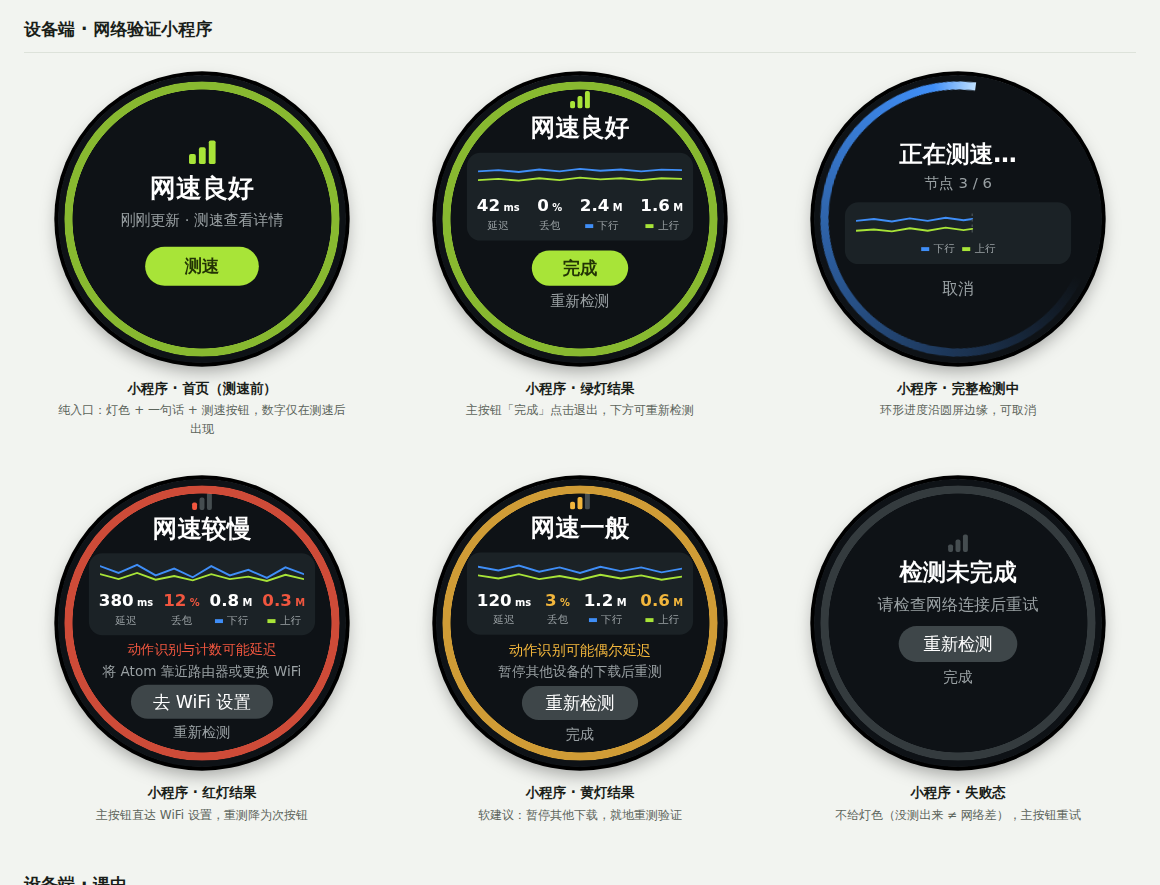
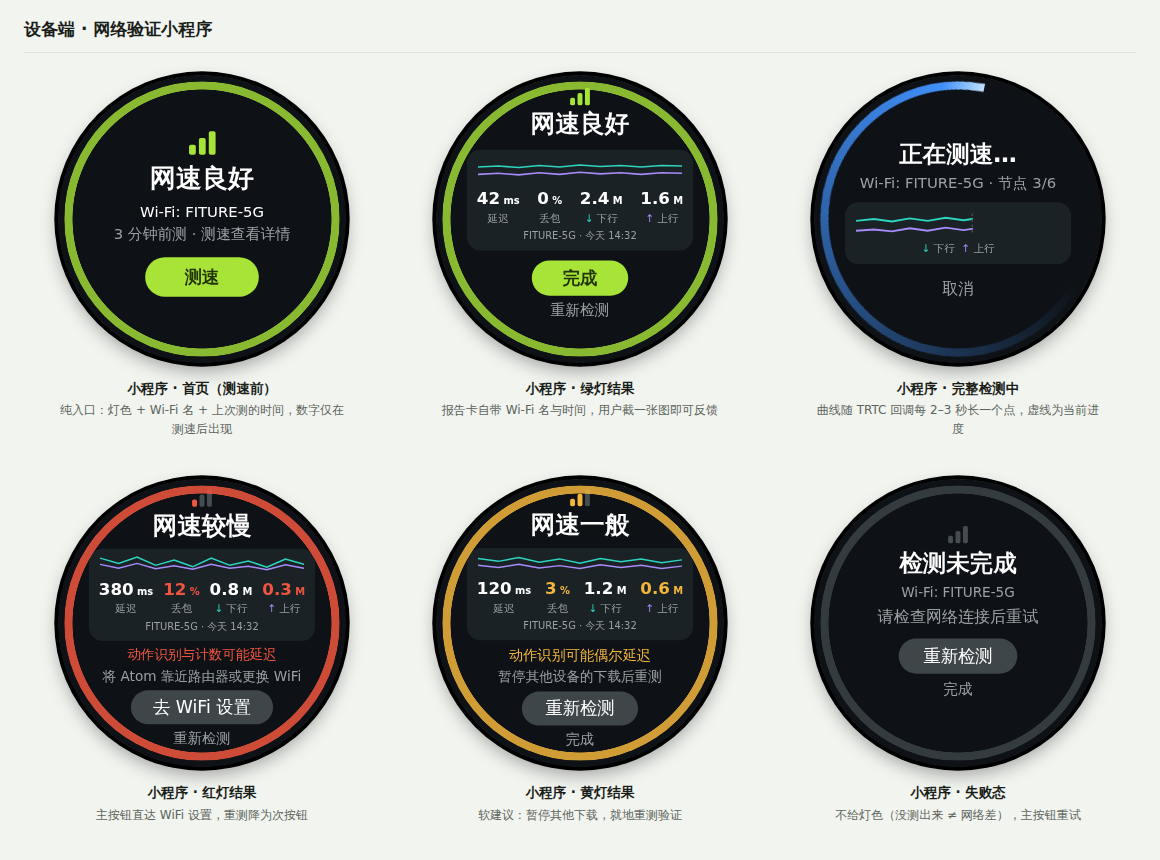
Add SSID + test time to speed-test app; adopt Ookla-style down/up colors
- Show current Wi-Fi name on mini-app home, testing screen, failure
  state, and as a footer inside every result report card (SSID + test
  time), so a single screenshot is a complete, attributable report
- Waveform colors: down = teal #2DD4BF, up = violet #A78BFA with arrow
  legends (Ookla convention); red/yellow/green banned on curves to
  avoid collision with traffic-light semantics (up-curve previously
  reused the green-light color)
- New PRD A4.7: waveform spec — one point per TRTC callback (2-3 s,
  5-8 points; fallback path 1 s buckets), real-time append rendering
  with progress cursor, polyline only (no interpolation), result page
  freezes the same data into the report card
- Tighten EN copy and vertical spacing so red/yellow result screens
  fit the round bezel in both languages; re-export embedded PNG

Claude-Session: https://claude.ai/code/session_01GK61VJL6HvXSFdCeuPzjiU

diff --git a/Demo-界面交互UI设计.html b/Demo-界面交互UI设计.html
@@ -77,6 +77,7 @@
   .rc-metrics .v { font-size: 27px; font-weight: 600; }
   .rc-metrics .v span { font-size: 16px; }
   .rc-metrics .k { font-size: 17px; color: var(--dev-sub); margin-top: 2px; }
+  .rc-foot { font-size: 16px; color: var(--dev-sub); margin-top: 5px; }
   .status-line { display: flex; align-items: center; justify-content: center; gap: 12px; min-height: 56px; font-size: 27px; color: #d4d8da; }
 
   .ring { position: absolute; inset: 10px; border-radius: 50%;
@@ -275,11 +276,12 @@
         <div style="flex:.85"></div>
         <span class="bars lg"><i class="b1" style="background:var(--dev-good)"></i><i class="b2" style="background:var(--dev-good)"></i><i class="b3" style="background:var(--dev-good)"></i></span>
         <div class="big-status" data-en="Good speed">网速良好</div>
-        <div style="font-size:24px; color:var(--dev-sub); margin-top:6px" data-en="Updated just now · test for details">刚刚更新 · 测速查看详情</div>
-        <div class="btn primary" style="margin-top:26px; padding:12px 64px" data-en="Speed test">测速</div>
+        <div style="font-size:24px; color:var(--dev-text); margin-top:8px">Wi-Fi: FITURE-5G</div>
+        <div style="font-size:24px; color:var(--dev-sub); margin-top:2px" data-en="Tested 3 min ago · test for details">3 分钟前测 · 测速查看详情</div>
+        <div class="btn primary" style="margin-top:20px; padding:12px 64px" data-en="Speed test">测速</div>
         <div style="flex:1"></div>
       </div></div>
-      <figcaption><b>小程序 · 首页（测速前）</b><span>纯入口：灯色 + 一句话 + 测速按钮，数字仅在测速后出现</span></figcaption>
+      <figcaption><b>小程序 · 首页（测速前）</b><span>纯入口：灯色 + Wi-Fi 名 + 上次测的时间，数字仅在测速后出现</span></figcaption>
     </figure>
 
     <figure class="shot">
@@ -289,19 +291,20 @@
         <span class="bars"><i class="b1" style="background:var(--dev-good)"></i><i class="b2" style="background:var(--dev-good)"></i><i class="b3" style="background:var(--dev-good)"></i></span>
         <div class="big-status" style="margin-top:2px; font-size:40px" data-en="Good speed">网速良好</div>
         <div class="report-card" style="margin-top:14px">
-          <svg width="330" height="40" viewBox="0 0 330 40"><polyline points="0,14 33,12 66,15 99,11 132,14 165,10 198,13 231,11 264,14 297,11 330,12" fill="none" stroke="#3f8ef7" stroke-width="3" stroke-linecap="round"/><polyline points="0,28 33,26 66,29 99,25 132,28 165,24 198,27 231,25 264,28 297,25 330,26" fill="none" stroke="#a8e438" stroke-width="3" stroke-linecap="round"/></svg>
+          <svg width="330" height="34" viewBox="0 0 330 40" preserveAspectRatio="none"><polyline points="0,14 33,12 66,15 99,11 132,14 165,10 198,13 231,11 264,14 297,11 330,12" fill="none" stroke="#2dd4bf" stroke-width="3" stroke-linecap="round"/><polyline points="0,28 33,26 66,29 99,25 132,28 165,24 198,27 231,25 264,28 297,25 330,26" fill="none" stroke="#a78bfa" stroke-width="3" stroke-linecap="round"/></svg>
           <div class="rc-metrics">
             <div><div class="v">42<span> ms</span></div><div class="k" data-en="Latency">延迟</div></div>
             <div><div class="v">0<span> %</span></div><div class="k" data-en="Loss">丢包</div></div>
-            <div><div class="v">2.4<span> M</span></div><div class="k"><span style="color:#3f8ef7">▬</span> <span data-en="Down">下行</span></div></div>
-            <div><div class="v">1.6<span> M</span></div><div class="k"><span style="color:#a8e438">▬</span> <span data-en="Up">上行</span></div></div>
+            <div><div class="v">2.4<span> M</span></div><div class="k"><span style="color:#2dd4bf">↓</span> <span data-en="Down">下行</span></div></div>
+            <div><div class="v">1.6<span> M</span></div><div class="k"><span style="color:#a78bfa">↑</span> <span data-en="Up">上行</span></div></div>
           </div>
+          <div class="rc-foot">FITURE-5G · <span data-en="today 14:32">今天 14:32</span></div>
         </div>
         <div class="btn primary" style="margin-top:16px; padding:9px 50px" data-en="Done">完成</div>
         <div style="font-size:24px; color:var(--dev-sub); margin-top:8px" data-en="Retest">重新检测</div>
         <div style="flex:.9"></div>
       </div></div>
-      <figcaption><b>小程序 · 绿灯结果</b><span>主按钮「完成」点击退出，下方可重新检测</span></figcaption>
+      <figcaption><b>小程序 · 绿灯结果</b><span>报告卡自带 Wi-Fi 名与时间，用户截一张图即可反馈</span></figcaption>
     </figure>
 
     <figure class="shot">
@@ -309,15 +312,15 @@
         <div class="ring scan"></div>
         <div style="flex:.9"></div>
         <div class="big-status" style="font-size:38px" data-en="Testing speed…">正在测速…</div>
-        <div style="font-size:24px; color:var(--dev-sub); margin-top:4px" data-en="Node 3 / 6">节点 3 / 6</div>
+        <div style="font-size:24px; color:var(--dev-sub); margin-top:4px" data-en="Wi-Fi: FITURE-5G · node 3/6">Wi-Fi: FITURE-5G · 节点 3/6</div>
         <div class="report-card" style="margin-top:14px; padding-top:14px">
-          <svg width="330" height="44" viewBox="0 0 330 44"><polyline points="0,16 29,13 58,17 87,12 116,16 145,11 174,15 188,13" fill="none" stroke="#3f8ef7" stroke-width="3" stroke-linecap="round"/><polyline points="0,32 29,30 58,33 87,28 116,32 145,27 174,31 188,29" fill="none" stroke="#a8e438" stroke-width="3" stroke-linecap="round"/><line x1="188" y1="4" x2="188" y2="40" stroke="#4a5254" stroke-width="2" stroke-dasharray="4 5"/></svg>
-          <div style="font-size:17px; color:var(--dev-sub); margin-top:6px"><span style="color:#3f8ef7">▬</span> <span data-en="Down">下行</span>&nbsp;&nbsp;<span style="color:#a8e438">▬</span> <span data-en="Up">上行</span></div>
+          <svg width="330" height="44" viewBox="0 0 330 44"><polyline points="0,16 29,13 58,17 87,12 116,16 145,11 174,15 188,13" fill="none" stroke="#2dd4bf" stroke-width="3" stroke-linecap="round"/><polyline points="0,32 29,30 58,33 87,28 116,32 145,27 174,31 188,29" fill="none" stroke="#a78bfa" stroke-width="3" stroke-linecap="round"/><line x1="188" y1="4" x2="188" y2="40" stroke="#4a5254" stroke-width="2" stroke-dasharray="4 5"/></svg>
+          <div style="font-size:17px; color:var(--dev-sub); margin-top:6px"><span style="color:#2dd4bf">↓</span> <span data-en="Down">下行</span>&nbsp;&nbsp;<span style="color:#a78bfa">↑</span> <span data-en="Up">上行</span></div>
         </div>
         <div style="font-size:26px; color:var(--dev-sub); margin-top:22px" data-en="Cancel">取消</div>
         <div style="flex:1"></div>
       </div></div>
-      <figcaption><b>小程序 · 完整检测中</b><span>环形进度沿圆屏边缘，可取消</span></figcaption>
+      <figcaption><b>小程序 · 完整检测中</b><span>曲线随 TRTC 回调每 2–3 秒长一个点，虚线为当前进度</span></figcaption>
     </figure>
 
     <figure class="shot">
@@ -326,17 +329,18 @@
         <div style="flex:.44"></div>
         <span class="bars"><i class="b1" style="background:var(--dev-bad)"></i><i class="b2 dim"></i><i class="b3 dim"></i></span>
         <div class="big-status" style="margin-top:2px; font-size:40px" data-en="Slow speed">网速较慢</div>
-        <div class="report-card" style="margin-top:12px; padding-top:12px">
-          <svg width="330" height="36" viewBox="0 0 330 36"><polyline points="0,9 30,20 60,7 90,24 120,13 150,27 180,9 210,24 240,15 270,28 300,11 330,22" fill="none" stroke="#3f8ef7" stroke-width="3" stroke-linecap="round"/><polyline points="0,22 30,30 60,20 90,31 120,25 150,32 180,22 210,30 240,26 270,33 300,23 330,30" fill="none" stroke="#a8e438" stroke-width="3" stroke-linecap="round"/></svg>
+        <div class="report-card" style="margin-top:10px; padding-top:8px">
+          <svg width="330" height="28" viewBox="0 0 330 36" preserveAspectRatio="none"><polyline points="0,9 30,20 60,7 90,24 120,13 150,27 180,9 210,24 240,15 270,28 300,11 330,22" fill="none" stroke="#2dd4bf" stroke-width="3" stroke-linecap="round"/><polyline points="0,22 30,30 60,20 90,31 120,25 150,32 180,22 210,30 240,26 270,33 300,23 330,30" fill="none" stroke="#a78bfa" stroke-width="3" stroke-linecap="round"/></svg>
           <div class="rc-metrics">
             <div><div class="v">380<span> ms</span></div><div class="k" data-en="Latency">延迟</div></div>
             <div><div class="v" style="color:var(--dev-bad)">12<span> %</span></div><div class="k" data-en="Loss">丢包</div></div>
-            <div><div class="v">0.8<span> M</span></div><div class="k"><span style="color:#3f8ef7">▬</span> <span data-en="Down">下行</span></div></div>
-            <div><div class="v" style="color:var(--dev-bad)">0.3<span> M</span></div><div class="k"><span style="color:#a8e438">▬</span> <span data-en="Up">上行</span></div></div>
+            <div><div class="v">0.8<span> M</span></div><div class="k"><span style="color:#2dd4bf">↓</span> <span data-en="Down">下行</span></div></div>
+            <div><div class="v" style="color:var(--dev-bad)">0.3<span> M</span></div><div class="k"><span style="color:#a78bfa">↑</span> <span data-en="Up">上行</span></div></div>
           </div>
+          <div class="rc-foot">FITURE-5G · <span data-en="today 14:32">今天 14:32</span></div>
         </div>
-        <div style="font-size:22px; color:var(--dev-bad); margin-top:8px" data-en="Pose tracking and rep counts may lag">动作识别与计数可能延迟</div>
-        <div class="advice" style="margin-top:3px; font-size:22px; width:370px" data-en="Move Atom closer to the router or switch Wi-Fi">将 Atom 靠近路由器或更换 WiFi</div>
+        <div style="font-size:22px; color:var(--dev-bad); margin-top:8px" data-en="Pose tracking & counting may lag">动作识别与计数可能延迟</div>
+        <div class="advice" style="margin-top:3px; font-size:22px; width:370px" data-en="Move Atom closer or switch Wi-Fi">将 Atom 靠近路由器或更换 WiFi</div>
         <div class="btn" style="margin-top:6px; padding:8px 36px" data-en="Wi-Fi Settings">去 WiFi 设置</div>
         <div style="font-size:23px; color:var(--dev-sub); margin-top:6px" data-en="Retest">重新检测</div>
         <div style="flex:.8"></div>
@@ -350,17 +354,18 @@
         <div style="flex:.44"></div>
         <span class="bars"><i class="b1" style="background:var(--dev-warn)"></i><i class="b2" style="background:var(--dev-warn)"></i><i class="b3 dim"></i></span>
         <div class="big-status" style="margin-top:2px; font-size:40px" data-en="Fair speed">网速一般</div>
-        <div class="report-card" style="margin-top:12px; padding-top:12px">
-          <svg width="330" height="36" viewBox="0 0 330 36"><polyline points="0,11 33,17 66,9 99,19 132,12 165,21 198,11 231,18 264,12 297,20 330,14" fill="none" stroke="#3f8ef7" stroke-width="3" stroke-linecap="round"/><polyline points="0,25 33,30 66,23 99,31 132,26 165,32 198,24 231,30 264,25 297,32 330,27" fill="none" stroke="#a8e438" stroke-width="3" stroke-linecap="round"/></svg>
+        <div class="report-card" style="margin-top:10px; padding-top:8px">
+          <svg width="330" height="28" viewBox="0 0 330 36" preserveAspectRatio="none"><polyline points="0,11 33,17 66,9 99,19 132,12 165,21 198,11 231,18 264,12 297,20 330,14" fill="none" stroke="#2dd4bf" stroke-width="3" stroke-linecap="round"/><polyline points="0,25 33,30 66,23 99,31 132,26 165,32 198,24 231,30 264,25 297,32 330,27" fill="none" stroke="#a78bfa" stroke-width="3" stroke-linecap="round"/></svg>
           <div class="rc-metrics">
             <div><div class="v">120<span> ms</span></div><div class="k" data-en="Latency">延迟</div></div>
             <div><div class="v" style="color:var(--dev-warn)">3<span> %</span></div><div class="k" data-en="Loss">丢包</div></div>
-            <div><div class="v">1.2<span> M</span></div><div class="k"><span style="color:#3f8ef7">▬</span> <span data-en="Down">下行</span></div></div>
-            <div><div class="v" style="color:var(--dev-warn)">0.6<span> M</span></div><div class="k"><span style="color:#a8e438">▬</span> <span data-en="Up">上行</span></div></div>
+            <div><div class="v">1.2<span> M</span></div><div class="k"><span style="color:#2dd4bf">↓</span> <span data-en="Down">下行</span></div></div>
+            <div><div class="v" style="color:var(--dev-warn)">0.6<span> M</span></div><div class="k"><span style="color:#a78bfa">↑</span> <span data-en="Up">上行</span></div></div>
           </div>
+          <div class="rc-foot">FITURE-5G · <span data-en="today 14:32">今天 14:32</span></div>
         </div>
         <div style="font-size:23px; color:var(--dev-warn); margin-top:8px" data-en="Pose tracking may lag at times">动作识别可能偶尔延迟</div>
-        <div class="advice" style="margin-top:3px; font-size:22px; width:370px" data-en="Pause other downloads and retest">暂停其他设备的下载后重测</div>
+        <div class="advice" style="margin-top:3px; font-size:22px; width:370px" data-en="Pause other downloads, retest">暂停其他设备的下载后重测</div>
         <div class="btn" style="margin-top:8px; padding:8px 38px" data-en="Retest">重新检测</div>
         <div style="font-size:23px; color:var(--dev-sub); margin-top:6px" data-en="Done">完成</div>
         <div style="flex:.8"></div>
@@ -374,7 +379,8 @@
         <div style="flex:.7"></div>
         <span class="bars"><i class="b1 dim"></i><i class="b2 dim"></i><i class="b3 dim"></i></span>
         <div class="big-status" style="font-size:38px; margin-top:6px" data-en="Test incomplete">检测未完成</div>
-        <div class="advice" style="margin-top:8px" data-en="Check the connection and retry">请检查网络连接后重试</div>
+        <div style="font-size:22px; color:var(--dev-sub); margin-top:6px">Wi-Fi: FITURE-5G</div>
+        <div class="advice" style="margin-top:4px" data-en="Check the connection and retry">请检查网络连接后重试</div>
         <div class="btn" style="margin-top:16px; padding:9px 40px" data-en="Retest">重新检测</div>
         <div style="font-size:24px; color:var(--dev-sub); margin-top:9px" data-en="Done">完成</div>
         <div style="flex:1"></div>

diff --git a/PRD-atom网络状态检测与信号同步.md b/PRD-atom网络状态检测与信号同步.md
@@ -116,9 +116,9 @@ ATOM 是一台通过 WiFi 联网的嵌入式训练设备，上课时通过 TRTC 
 
 ![网速测试小程序六态：首页 / 绿灯结果 / 检测中 / 红灯结果 / 黄灯结果 / 失败态](./images/界面-网速测试小程序.png)
 
-- **A4.1 首页 = 纯入口（测速前）**：灯色 bars + 一句话结论 + 副行数据时效（「刚刚更新」≤60 秒 /「N 分钟前更新」≤5 分钟）+ 主按钮「测速」。**不展示任何数字指标**——常驻探测没有真实带宽，数字只在测速后出现，「测速前 = 入口、测速后 = 报告」天然可区分；缓存超 5 分钟不显示旧灯色，直接「检测中…」并刷新；
-- **A4.2 检测中**：标题「正在测速…」+ 真实节点进度「节点 N / M」（按官方回调驱动，不做假进度）+ 报告卡内波形实时生长（蓝 = 下行、绿 = 上行，每 2–3 秒一个样本点）+「取消」（调用 `stopSpeedTest`）；按钮防重入（官方限制同一时间仅一个测速任务）；
-- **A4.3 结果页信息分组（四组，组间距 > 组内距）**：① 结论（bars + 一句话）→ ② **报告卡**（波形定格 + 四指标一行：延迟 / 丢包 / 下行 / 上行，下行上行标签带曲线同色标记；不达期望的项用灯色着色；-1 显示「—」）→ ③ 影响 + 建议（仅黄 / 红：影响 = 对上课意味着什么，如「动作识别可能延迟」；建议 = 怎么办）→ ④ 操作。**一张报告卡 = 一份完整测速报告，截图即可反馈客服**（截图给人看，上报给系统看）；卡内字号缩小（近距操作 UI）。稳定性派生标签：样本方差超阈值时卡下方显示「网络波动较大」；
+- **A4.1 首页 = 纯入口（测速前）**：灯色 bars + 一句话结论 + **当前 Wi-Fi 名（SSID）** + 副行数据时效（「刚刚更新」≤60 秒 /「N 分钟前测」≤5 分钟）+ 主按钮「测速」。SSID 必须外显——用户点进来看「网好不好」时往往不知道自己连的是哪个 WiFi，灯色结论必须挂在具体网络名下才可归因（与 B2 按 SSID 缓存一致）。**不展示任何数字指标**——常驻探测没有真实带宽，数字只在测速后出现，「测速前 = 入口、测速后 = 报告」天然可区分；缓存超 5 分钟不显示旧灯色，直接「检测中…」并刷新；
+- **A4.2 检测中**：标题「正在测速…」+ 副行「Wi-Fi: {SSID} · 节点 N / M」（按官方回调驱动，不做假进度）+ 报告卡内波形实时生长（↓ 青 = 下行、↑ 紫 = 上行，见 A4.7）+「取消」（调用 `stopSpeedTest`）；按钮防重入（官方限制同一时间仅一个测速任务）；
+- **A4.3 结果页信息分组（四组，组间距 > 组内距）**：① 结论（bars + 一句话）→ ② **报告卡**（波形定格 + 四指标一行：延迟 / 丢包 / ↓ 下行 / ↑ 上行，下行上行标签带曲线同色箭头；不达期望的项用灯色着色；-1 显示「—」；**卡内页脚 = SSID + 测试时间**，如「FITURE-5G · 今天 14:32」）→ ③ 影响 + 建议（仅黄 / 红：影响 = 对上课意味着什么，如「动作识别可能延迟」；建议 = 怎么办）→ ④ 操作。**一张报告卡 = 一份完整测速报告，截图即可反馈客服**（截图给人看，上报给系统看）；卡内字号缩小（近距操作 UI）。稳定性派生标签：样本方差超阈值时卡下方显示「网络波动较大」；
 - **A4.4 按钮逻辑（主按钮 = 最短解决路径）**：
 
 | 状态 | 主按钮 | 次按钮 | 理由 |
@@ -131,7 +131,12 @@ ATOM 是一台通过 WiFi 联网的嵌入式训练设备，上课时通过 TRTC 
 | 失败态 | 重新检测 | 完成 | 任务未完成，重试是唯一有效动作 |
 
 - **A4.5 失败态**：`success = false` 时**不给任何灯色**（没测出来 ≠ 网络差），「检测未完成 / 请检查网络连接后重试」；`errMsg` 仅上报不上屏；
-- **A4.6 历史与精简**：结果本地存近 10 次（按 SSID 分组）并上报；小程序内「历史记录」次级入口（P2）；各页面移除顶部时钟（与检测任务无关的信息不上屏）。
+- **A4.6 历史与精简**：结果本地存近 10 次（按 SSID 分组）并上报；小程序内「历史记录」次级入口（P2）；各页面移除顶部时钟（与检测任务无关的信息不上屏）；
+- **A4.7 波形图规范（时间密度 · 实时刷新 · 配色）**：
+  - **配色**：↓ 下行 = 青色 `#2DD4BF`，↑ 上行 = 紫色 `#A78BFA`，图例与指标标签均带同色箭头（色 + 箭头双编码，色盲可辨）。上下行没有正式行业标准色，但事实惯例是 Ookla Speedtest 的「青绿下行 / 紫色上行」+ 箭头，本方案沿用该心智；**禁用红 / 黄 / 绿**——三色已被红绿灯语义占用，曲线用灯色会造成「上行 = 绿灯」的误读（V1.0 前的稿子恰好踩了这个坑，已改）；
+  - **时间密度**：一个样本点 = 一次 TRTC `onSpeedTestResult` 进度回调，官方节奏约每 2–3 秒一点、整次 10–20 秒，共约 5–8 点；备选文件测速路径按 1 秒一个吞吐量桶采样（约 15–30 点）。点即真实样本，**只画折线不做平滑插值**（不虚构数据）；
+  - **实时刷新**：检测中每收到一个回调就在曲线右端追加一点（可 300ms 缓动画入），x 轴 = 已用时长（0 → 预计总时长，定宽不滚动），虚线游标标记当前进度；回调间隔内数值不做假动画。带宽值在延迟阶段尚无效（-1），曲线从首个有效带宽样本开始画；
+  - **定格复用**：测速结束波形数据原样冻结进结果页报告卡（同一份数据、同一组件），不重绘不重采样。
 
 ---
 
@@ -275,7 +280,7 @@ ATOM 是一台通过 WiFi 联网的嵌入式训练设备，上课时通过 TRTC 
 | WiFi 页状态行 | 检测中（无有效数据） | 检测中… | Testing… |
 | 小程序首页 | 副行（时效） | 刚刚更新 / 3 分钟前更新 · 测速查看详情 | Updated just now / 3 min ago · test for details |
 | 小程序首页 | 主按钮 | 测速 | Speed test |
-| 小程序检测中 | 进度 / 图例 | 节点 3 / 6；下行 / 上行 | Node 3 / 6; Down / Up |
+| 小程序检测中 | 进度 / 图例 | Wi-Fi: {SSID} · 节点 3/6；↓ 下行 / ↑ 上行 | Wi-Fi: {SSID} · node 3/6; ↓ Down / ↑ Up |
 | 小程序结果 | 绿 / 黄 / 红 | 网速良好 / 网速一般 / 网速较慢 | Good / Fair / Slow speed |
 | 小程序结果 | 影响（黄 / 红） | 动作识别可能偶尔延迟 / 动作识别与计数可能延迟 | Pose tracking may lag at times / Pose tracking and rep counts may lag |
 | 小程序结果 | 建议（路由器弱 / 宽带弱） | 将 Atom 靠近路由器或更换 WiFi / 网络繁忙 · 暂停其他设备下载后重测 | Move Atom closer to the router or switch Wi-Fi / Network busy · pause other downloads |
